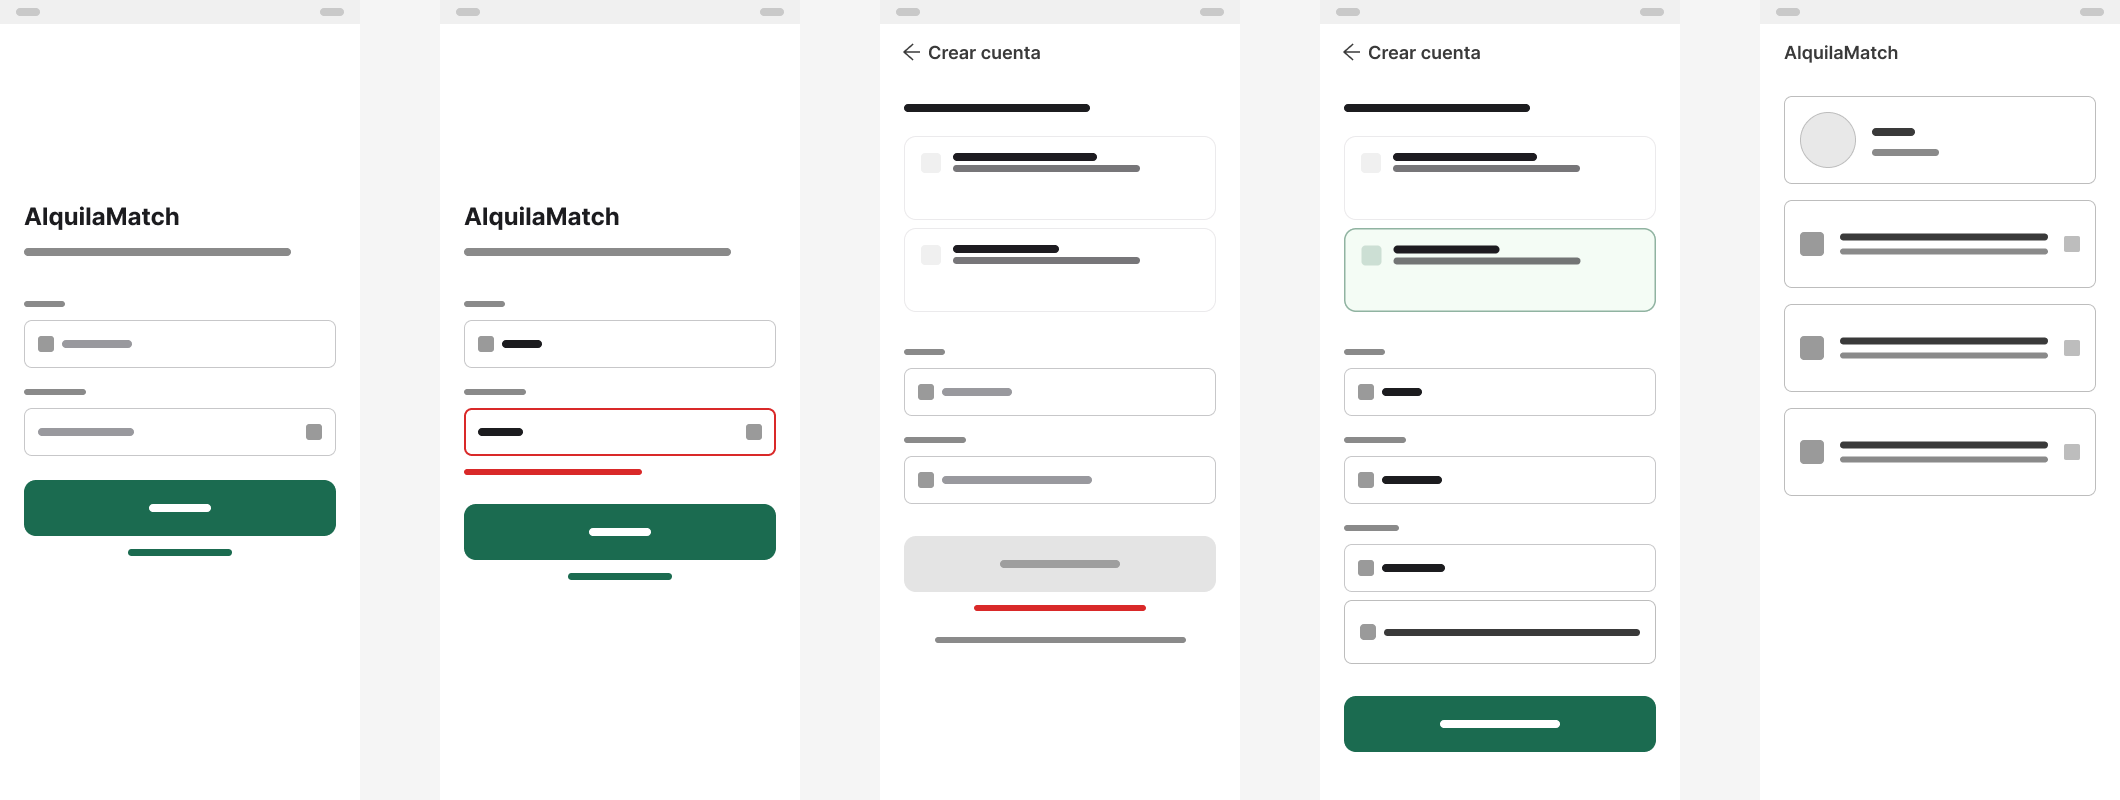
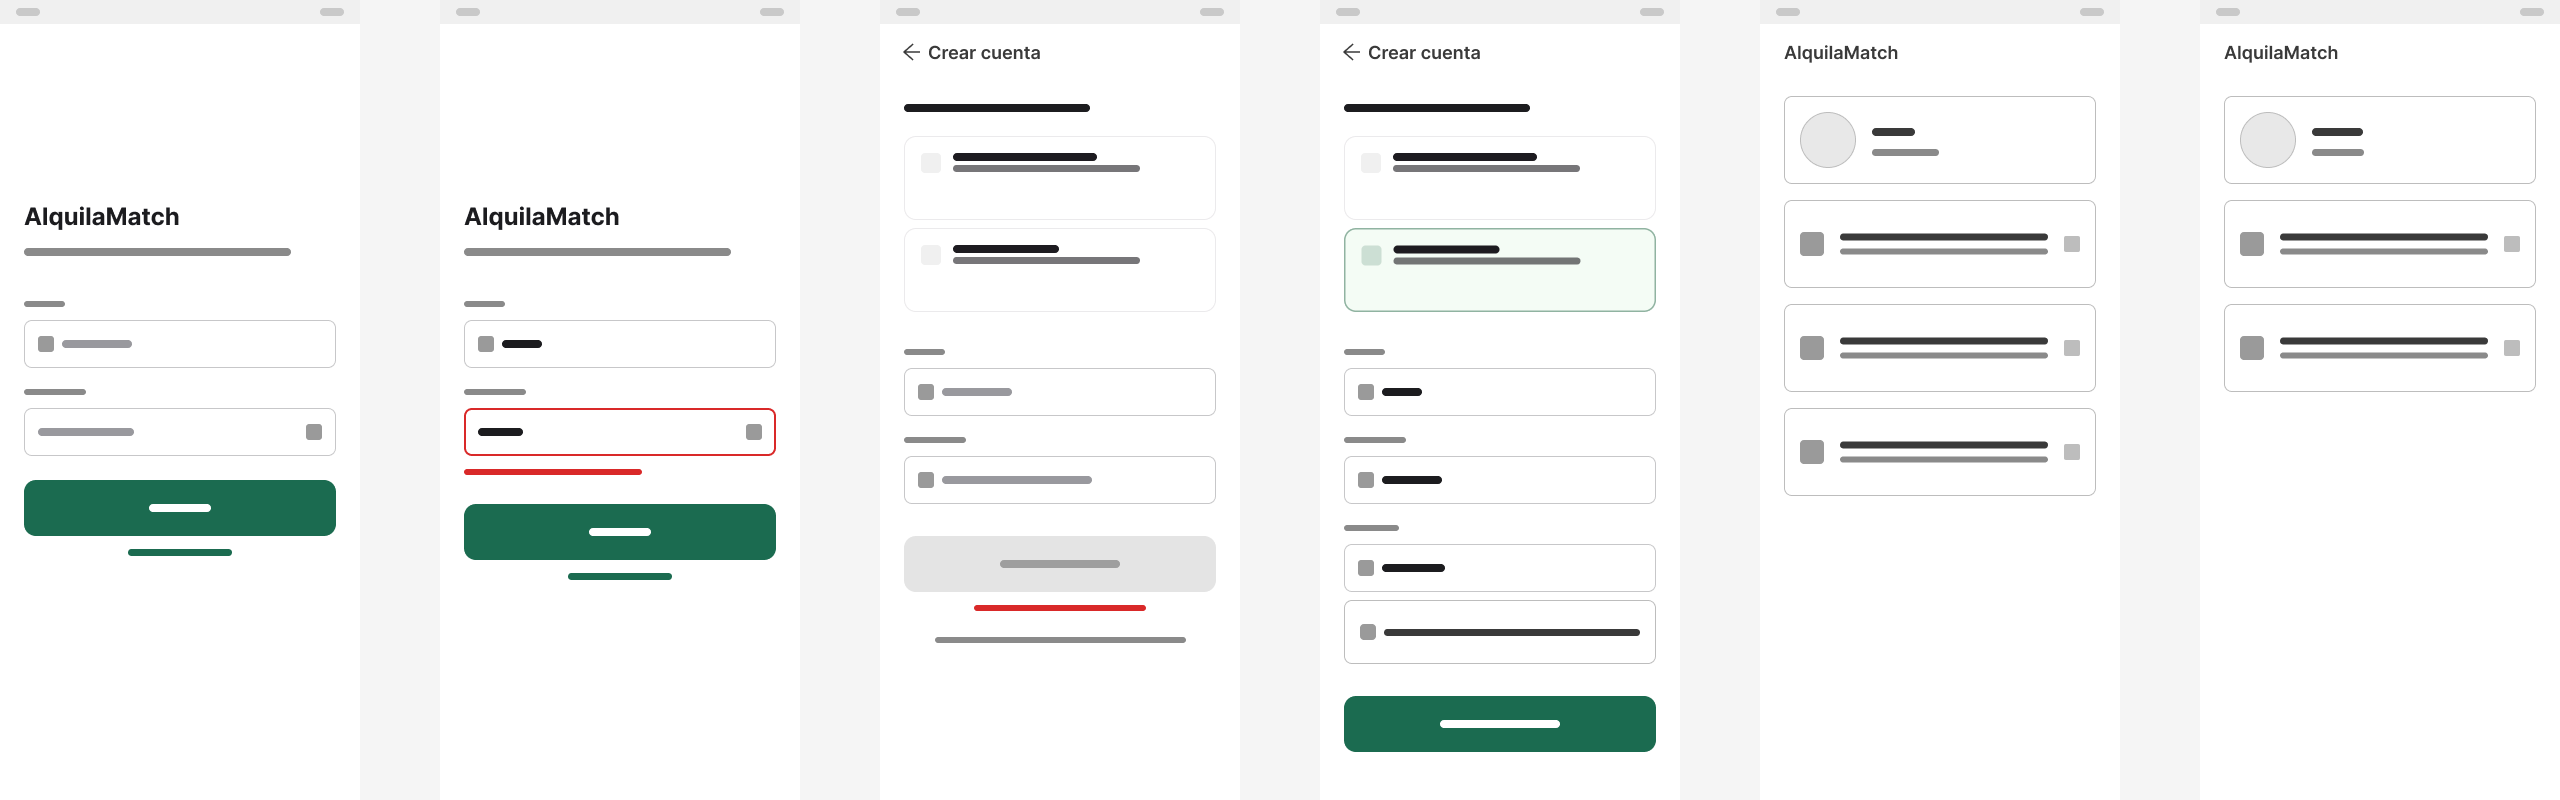
feat(wireframes): el flujo v0.3 dibuja los DOS destinos, no uno solo
El flujo se bifurca segun el rol, pero solo estaba dibujado el lado de la
propietaria. Ver un destino unico deja creer que la app es igual para las
dos — que es exactamente lo contrario de lo que decide elegir el rol.

Ahora son seis pantallas:

- 05 Adentro — propietaria: Inicio con TRES modulos (publicar, mis
  anuncios, gestionar solicitudes).
- 06 Adentro — inquilina: el mismo Inicio con DOS (buscar, estado de
  solicitudes).

Son la misma pantalla; lo unico que cambia son los modulos. Verlas juntas
es la unica forma de entender que se decidio en la 03, y por eso el
diagrama del flujo termina en dos ramas y no en un nodo comun.

Los textos de los modulos salen de home_screen.dart, igual que el resto.

Actualizados el diagrama mermaid, el paso a paso (que pasa de 5 a 6
filas), los dos README y el conteo de pantallas. Regenerada la pagina sin
letters y reexportados los PNG.

Verificado: 57 enlaces internos, ninguno roto.

diff --git a/flujo/flujo-v0.3.md b/flujo/flujo-v0.3.md
@@ -5,7 +5,8 @@
 **Actor:** cualquiera de las dos. Es el **único flujo que Marta y Andrea recorren igual**.
 **Tarea:** entrar a la app y quedar del lado que le corresponde.
 **Entra al flujo porque:** alguien le pasó la app y la abre por primera vez, o vuelve y la sesión ya venció.
-**Termina cuando:** está adentro y ve los módulos de su rol.
+**Termina cuando:** está adentro y ve los módulos de su rol — que son distintos
+para cada una. Esa diferencia es el resultado del flujo, no un detalle.
 
 > **Por qué esto es un flujo y no un trámite.** Entrar y crear cuenta parecen
 > burocracia previa al producto. No lo son: acá se elige el rol, y **el rol
@@ -32,16 +33,18 @@ flowchart TD
     R1 --> R2["<b>4.</b> Usuario y contraseña<br/>· WhatsApp si publica"]
     R2 --> F
 
-    F --> D{"Según el rol"}
-    D -->|Propietaria| V1[["Flujo v0.1<br/>Publicar"]]
-    D -->|Inquilina| V2[["Flujo v0.2<br/>Buscar"]]
+    F --> D{"¿Qué rol eligió?"}
+    D -->|Publicar| P5["<b>5.</b> Inicio con 3 módulos:<br/>Publicar · Mis anuncios ·<br/>Gestionar solicitudes"]
+    D -->|Buscar| P6["<b>6.</b> Inicio con 2 módulos:<br/>Buscar ·<br/>Estado de Solicitudes"]
+    P5 --> V1[["Flujo v0.1<br/>Publicar"]]
+    P6 --> V2[["Flujo v0.2<br/>Buscar"]]
 
     classDef paso fill:#d9ead3,stroke:#38761d,color:#000
     classDef error fill:#f4cccc,stroke:#cc0000,color:#000
     classDef borde fill:#c9daf8,stroke:#1155cc,color:#000
     classDef otro fill:#fff2cc,stroke:#bf9000,color:#000
 
-    class L1,R1,R2 paso
+    class L1,R1,R2,P5,P6 paso
     class E1 error
     class S,F,V1,V2 borde
     class A,L2,D otro
@@ -59,7 +62,12 @@ flowchart TD
 | 2 | Se equivoca | **El motivo aparece debajo del campo**, no en un cartel que se va solo | Un error que desaparece deja a la persona sin saber qué corregir |
 | 3 | Elige *Busco dónde alquilar* o *Quiero publicar* | Hasta que no elija, **el botón está apagado y dice por qué** | Es la decisión que define toda la app; dejarla implícita es lo peor que puede pasar acá |
 | 4 | Completa usuario y contraseña | Si eligió publicar, **aparece el campo de WhatsApp** con el aviso de que no se publica | El WhatsApp es el dato que el producto existe para proteger (evidencia 9) |
-| 5 | — | Entra al Inicio, con los módulos de su rol | Acá empieza el v0.1 o el v0.2 |
+| 5 | — | Si eligió publicar: Inicio con **tres** módulos (Publicar, Mis anuncios, Gestionar solicitudes) | Acá empieza el flujo v0.1 |
+| 6 | — | Si eligió buscar: Inicio con **dos** (Buscar, Estado de Solicitudes) | Acá empieza el flujo v0.2 |
+
+**Los pasos 5 y 6 son la misma pantalla.** Cambian sólo los módulos, y por eso
+están dibujados los dos: ver uno solo dejaría creer que la app es igual para
+las dos, que es exactamente lo contrario de lo que decide el paso 3.
 
 **El paso 3 es el momento clave.** No es un campo más de un formulario: es la
 bifurcación del producto. Por eso el botón nace deshabilitado con su motivo a la

diff --git a/README.md b/README.md
@@ -49,7 +49,7 @@ El proceso de búsqueda y oferta de alquileres genera una enorme pérdida de tie
 | Documento | Contenido |
 |---|---|
 | [Flujo](flujo/flujo-v0.3.md) | Ingresar, crear cuenta y elegir de qué lado del alquiler está |
-| [**Wireframes**](wireframes/flujo-v0.3-acceso/flujo-completo.png) | Las 5 pantallas en una lámina — se ven sin abrir Figma |
+| [**Wireframes**](wireframes/flujo-v0.3-acceso/flujo-completo.png) | Las 6 pantallas en una lámina — se ven sin abrir Figma |
 
 Es el único flujo que las dos personas recorren igual, y el que explica por qué
 la pantalla de Inicio les muestra cosas distintas.
@@ -61,7 +61,7 @@ la pantalla de Inicio les muestra cosas distintas.
 | [Lenguaje visual](wireframes/_lenguaje-visual.md) | Reglas que siguen todos los wireframes |
 | [Wireframes del flujo v0.1](wireframes/flujo-v0.1-propietario/README.md) | Los 5 SVG del propietario |
 | [Wireframes del flujo v0.2](wireframes/flujo-v0.2-inquilina/README.md) | Las 7 pantallas de la inquilina |
-| [Wireframes del flujo v0.3](wireframes/flujo-v0.3-acceso/README.md) | Las 5 pantallas del acceso |
+| [Wireframes del flujo v0.3](wireframes/flujo-v0.3-acceso/README.md) | Las 6 pantallas del acceso |
 | [**Decisión de diseño**](docs/decision-clase-05.md) | Jerarquía, layout y espaciado: antes, cambio, prueba con usuaria y siguiente paso |
 | [**Componente y estados**](docs/decision-clase-06.md) | El botón principal como pieza reutilizable, con sus cuatro estados |
 
